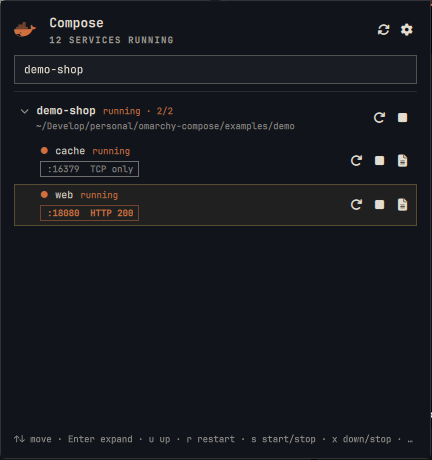
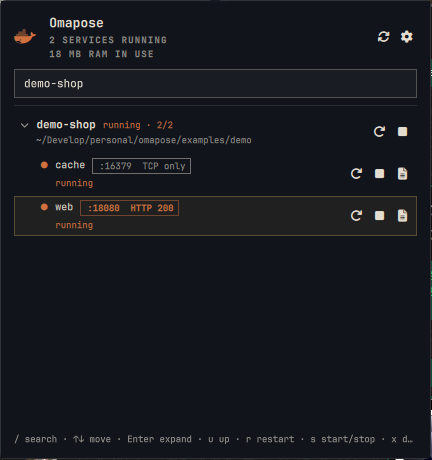
refactor(nombre): renombra el plugin a Omapose
Omacompose ya existe en el marketplace; ID io.github.jeanpidev.omapose,
repo JeanpiDev/omapose, nuevo preview y documentación al día.

diff --git a/components/SettingsView.qml b/components/SettingsView.qml
@@ -159,7 +159,7 @@ Item {
 
         Text {
           textFormat: Text.PlainText
-          text: "Compose · v" + Model.VERSION
+          text: "Omapose · v" + Model.VERSION
           color: root.fg
           font.family: root.fontFamily
           font.pixelSize: Style.font.body

diff --git a/specs/001-compose-panel/tasks.md b/specs/001-compose-panel/tasks.md
@@ -17,7 +17,7 @@ description: "Task list for 001-compose-panel"
 
 - [X] T001 Crear `manifest.json` según contracts/interfaces.md (id, homepage, schema, defaults)
 - [X] T002 [P] Añadir `LICENSE` (MIT, JeanpiDev) y `.gitignore`
-- [X] T003 [P] Crear `scripts/dev-sync.sh` (rsync del repo a `~/.config/omarchy/plugins/io.github.jeanpidev.omarchy-compose`, excluye `.git`/`specs`/`.specify`/`.claude`/`tests`, luego `omarchy restart shell`)
+- [X] T003 [P] Crear `scripts/dev-sync.sh` (rsync del repo a `~/.config/omarchy/plugins/io.github.jeanpidev.omapose`, excluye `.git`/`specs`/`.specify`/`.claude`/`tests`, luego `omarchy restart shell`)
 - [X] T004 [P] Crear `i18n/en.json` e `i18n/es.json` con las claves base (título, estados, acciones, errores, vacío)
 
 ---
@@ -29,7 +29,7 @@ description: "Task list for 001-compose-panel"
 - [X] T007 Implementar en `Model.js` `groupProjects` (Project/Service, estado agregado, salud desde `.Status`) y `mergeRemembered` (recordados → `stopped`/`missing`)
 - [X] T008 [P] Tests en `tests/model.test.mjs` para T005–T007: config_files con comas, IPv6, texto con forma de marcado, entradas truncadas, proyecto recordado sin contenedores
 - [X] T009 Crear `ComposeStore.qml`: `Process` de `docker ps` con una sola reconstrucción por ciclo, `ListModel` de proyectos y servicios sincronizado por clave (`set`/`insert`/`remove`, nunca reasignar), `errorText` (daemon caído / permiso con acción sugerida)
-- [X] T010 En `ComposeStore.qml`: `FileView` de `~/.local/state/omarchy/omarchy-compose/projects.json` (lectura tolerante a JSON corrupto, escritura al ver proyectos, `forget(name)`)
+- [X] T010 En `ComposeStore.qml`: `FileView` de `~/.local/state/omarchy/omapose/projects.json` (lectura tolerante a JSON corrupto, escritura al ver proyectos, `forget(name)`)
 - [X] T011 En `ComposeStore.qml`: proceso largo `docker events` (filtro compose) → refresco con debounce 300 ms; reinicio con backoff 2→60 s; respaldo `idleRefreshSec`; terminar procesos en `Component.onDestruction`
 - [X] T012 Crear `BarWidget.qml`: `WidgetButton` con `onPressed` (izquierdo: toggle; derecho: refresh), `inkColor` = `widgetContentColor` en Shibumi / `barForeground` nativa, contador de servicios activos, instancia `ComposeStore`, `Loader` de `Panel.qml` con inyección (`bar`, `anchorItem`, `hostWidget`, `store`), `IpcHandler` (open/close/toggle/refresh/status)
 - [X] T013 Crear `Panel.qml`: `Panel` + `KeyboardPanel` + `PanelKeyCatcher` (Esc, Tab entre paneles), `PanelHero`, contenedor de vistas (lista | logs | ajustes), fondo opaco con tokens `Color.popups.*`
@@ -89,6 +89,7 @@ description: "Task list for 001-compose-panel"
 - [X] T031 Validar: `node --test tests/`, `omarchy plugin validate .`, `qmllint -I /usr/share/omarchy/shell` sobre todos los QML
 - [X] T032 Ejecutar checklist completo de quickstart.md en Shibumi y en `omarchy.bar`, incluidos cambio de tema, `pgrep -af "docker events"` tras desactivar/desinstalar, y medición de CPU en reposo (SC-005) — hecho: Shibumi, `omarchy.bar`, cambio de tema, summon/hide, desactivar/reactivar, desinstalar/reinstalar, SC-001 (10 proyectos/30 servicios: ~50 ms), SC-005, estado «missing», español. Docker detenido: mensaje + icono atenuado, sin procesos colgados, recuperación sola al arrancarlo.
 
+- [X] T035 RAM total de contenedores en marcha en la cabecera (`docker stats`, panel abierto) — FR-015
 - [X] T034 Cumplir `develop.html`: `qmllint` de la guía en 0 (IPC en `PluginIpc.qml`), Tab = panel vecino, README con Install/Usage/Configure/Remove, dependencias y privilegios
 - [X] T033 Opción de idioma (`language`: auto/en/es) en ajustes con `Strings.qml` propio — FR-010
 

diff --git a/README.md b/README.md
@@ -1,13 +1,13 @@
-# Compose for Omarchy
+# Omapose
 
 Docker Compose projects in the Omarchy bar. See every project and service at a glance, bring them up or down, restart or stop single services, check whether their ports answer HTTP, and follow logs — from a panel, without opening a separate app.
 
-![Compose panel](preview.png)
+![Omapose panel](preview.png)
 
 ## Install
 
 ```sh
-omarchy plugin add https://github.com/JeanpiDev/omarchy-compose.git --enable
+omarchy plugin add https://github.com/JeanpiDev/omapose.git --enable
 ```
 
 ### Requirements
@@ -42,20 +42,22 @@ Click the whale in the bar (right click refreshes). The number next to it is how
 | `s` | Start / stop a service |
 | `x` / Delete | Down a project (asks first) · stop a service |
 | `o` / `y` | Open / copy the first port of a service |
-| `f` | Forget a remembered project with no containers (also `quickshell ipc -p /usr/share/omarchy/shell call io.github.jeanpidev.omarchy-compose forget <name>`) |
+| `f` | Forget a remembered project with no containers (also `quickshell ipc -p /usr/share/omarchy/shell call io.github.jeanpidev.omapose forget <name>`) |
 | `,` | Settings and About |
 | `R` | Refresh |
 | Esc | Back · close |
 
 Service actions act on the container, so they also work for services behind compose `profiles:` and for containers whose service was removed from the file. Bringing a project down includes every profile and removes those orphan containers.
 
+The header shows how many services are running and how much RAM they use in total (sampled with `docker stats` every 10 s while the panel is open).
+
 Ports show whether they answer: `HTTP 200`, `HTTP 404 · API`, `HTTP 401 · auth`, `TCP only` (databases), `No response`. Only HTTP ports open in the browser.
 
-Projects you brought down stay in the list (remembered in `~/.local/state/omarchy/omarchy-compose/projects.json`) so you can bring them up again.
+Projects you brought down stay in the list (remembered in `~/.local/state/omarchy/omapose/projects.json`) so you can bring them up again.
 
 ## Configure
 
-Panel → gear, or `omarchy bar set io.github.jeanpidev.omarchy-compose <key> <value> --json`:
+Panel → gear, or `omarchy bar set io.github.jeanpidev.omapose <key> <value> --json`:
 
 | Key | Default | |
 |---|---|---|
@@ -68,7 +70,7 @@ Panel → gear, or `omarchy bar set io.github.jeanpidev.omarchy-compose <key> <v
 Move it in the bar like any widget:
 
 ```sh
-omarchy bar move io.github.jeanpidev.omarchy-compose --section right
+omarchy bar move io.github.jeanpidev.omapose --section right
 ```
 
 ## Works with
@@ -97,8 +99,8 @@ examples/demo/               # small nginx + redis project to try it with
 ## Remove
 
 ```sh
-omarchy plugin remove io.github.jeanpidev.omarchy-compose
-rm -rf ~/.local/state/omarchy/omarchy-compose   # optional: remembered projects
+omarchy plugin remove io.github.jeanpidev.omapose
+rm -rf ~/.local/state/omarchy/omapose   # optional: remembered projects
 ```
 
 ## License

diff --git a/specs/001-compose-panel/plan.md b/specs/001-compose-panel/plan.md
@@ -6,7 +6,7 @@
 
 ## Summary
 
-Plugin `bar-widget` de Omarchy Quattro (`io.github.jeanpidev.omarchy-compose`) que lista los proyectos docker compose con sus servicios, estado, salud y puertos (con sondeo HTTP), y permite levantar/bajar/reiniciar proyectos y servicios y ver logs desde un `KeyboardPanel`. Datos con un único `docker ps -a` filtrado por etiquetas compose, refresco disparado por `docker events` (sin sondeo continuo), proyectos recordados en un archivo de estado, y estilo 100 % de tokens del tema/barra con la regla de color de Shibumi.
+Plugin `bar-widget` de Omarchy Quattro (`io.github.jeanpidev.omapose`) que lista los proyectos docker compose con sus servicios, estado, salud y puertos (con sondeo HTTP), y permite levantar/bajar/reiniciar proyectos y servicios y ver logs desde un `KeyboardPanel`. Datos con un único `docker ps -a` filtrado por etiquetas compose, refresco disparado por `docker events` (sin sondeo continuo), proyectos recordados en un archivo de estado, y estilo 100 % de tokens del tema/barra con la regla de color de Shibumi.
 
 ## Technical Context
 
@@ -14,7 +14,7 @@ Plugin `bar-widget` de Omarchy Quattro (`io.github.jeanpidev.omarchy-compose`) q
 
 **Primary Dependencies**: kit del shell `qs.Ui` (`BarWidget`, `WidgetButton`, `Panel`, `KeyboardPanel`, `PanelKeyCatcher`, `PanelHero`, `ConfirmDialog`, `TextField`), `qs.Commons` (`Color`, `Style`, `Translations`, `I18n`), `Quickshell.Io` (`Process`, `StdioCollector`, `FileView`, `IpcHandler`). Externas: `docker` + `docker compose` v2 (5.6.1 instalado), `curl`, `xdg-terminal-exec`.
 
-**Storage**: `~/.local/state/omarchy/omarchy-compose/projects.json` (proyectos recordados). Ajustes en `shell.json` vía `barWidget.schema` del manifiesto.
+**Storage**: `~/.local/state/omarchy/omapose/projects.json` (proyectos recordados). Ajustes en `shell.json` vía `barWidget.schema` del manifiesto.
 
 **Testing**: `node --test tests/` sobre `Model.js` (parsers, agregados, sondeo, merge de recordados, texto con marcado); `omarchy plugin validate`; `qmllint -I /usr/share/omarchy/shell`; checklist manual en `quickstart.md` (Shibumi y barra nativa).
 
@@ -62,7 +62,7 @@ specs/001-compose-panel/
 ### Source Code (repository root)
 
 ```text
-manifest.json             # id io.github.jeanpidev.omarchy-compose, kinds [bar-widget], homepage, schema
+manifest.json             # id io.github.jeanpidev.omapose, kinds [bar-widget], homepage, schema
 BarWidget.qml             # WidgetButton + contador + color Shibumi; crea ComposeStore; Loader de Panel; IpcHandler
 Panel.qml                 # Panel + KeyboardPanel + PanelKeyCatcher; vistas: lista | logs | ajustes
 ComposeStore.qml          # Process docker ps / events / acciones / sondeo; FileView de recordados; ListModel incremental

diff --git a/specs/001-compose-panel/research.md b/specs/001-compose-panel/research.md
@@ -16,7 +16,7 @@ Fuentes: https://plugins.omarchy.org/develop.html, `/usr/share/omarchy/shell`, p
 | Procesos con `Process` acotado, nunca interpolar valores en `bash -c` (fuente de datos: ver Fase 0). | Sin dependencias extra; seguro. |
 | Referencia Shibumi validada: `io.github.iammhador.claude-pulse` (solo `bar-widget`, datos dentro del widget, `WidgetButton.onPressed`, `PlainText` en todo). Su color no sigue a Shibumi (usa `barForeground`); ver regla de color. | Click y datos funcionan en la barra Shibumi del usuario. |
 | About en ajustes: tarjeta con nombre · versión, nota de privacidad y enlace al repo (`Qt.openUrlExternally`); `"homepage"` en `manifest.json`. | Patrón de `rimuru.screentime` (`SettingsView.qml`, sección About). |
-| ID `io.github.jeanpidev.omarchy-compose`; repo `github.com/JeanpiDev/omarchy-compose`. | Third-party no puede usar `omarchy.*`; sin symlinks. |
+| ID `io.github.jeanpidev.omapose`; repo `github.com/JeanpiDev/omapose`. | Third-party no puede usar `omarchy.*`; sin symlinks. |
 | Validación: `omarchy plugin validate`, `qmllint -I "$OMARCHY_PATH/shell"`; probar click, Esc, summon/hide, disable/enable, restart, remove en Shibumi y barra nativa. | Checklist de la guía. |
 
 ## Fase 0 (plan): decisiones con alternativas
@@ -38,3 +38,5 @@ Fuentes: https://plugins.omarchy.org/develop.html, `/usr/share/omarchy/shell`, p
 | Etiqueta del id de traducciones distinta de la propiedad (`tr`, no `strings`). | `strings: strings` dentro de un componente se resuelve a sí mismo (binding vacío): se veían claves sin traducir. | — |
 | `IpcHandler` en `PluginIpc.qml`, instanciado por `BarWidget`. | `qmllint` (Quattro) termina con código 255 sin mensaje ante cualquier `IpcHandler` con funciones tipadas (también en omaports y rimuru); separado, el paso de la guía `qmllint BarWidget.qml Panel.qml` pasa. Abrir/cerrar los enruta el shell a `BarWidget.open()/close()`. | Dejarlo en `BarWidget.qml` (falla la validación de la guía). |
 | Tab / Shift+Tab → panel vecino (`switchPanel`); `/` enfoca el buscador; ↓ desde el buscador entra a la lista. | Convención de todos los paneles nativos y del ejemplo de `develop.html`. | Tab para alternar buscador/lista. |
+| RAM total con `docker stats --no-stream` sobre los contenedores en marcha, solo con el panel abierto y cada 10 s. | `docker stats` muestrea ~1–2 s; en segundo plano no bloquea la lista ni gasta CPU con el panel cerrado. | `docker stats` en streaming permanente (proceso extra siempre vivo). |
+| Nombre «Omapose» (ID `io.github.jeanpidev.omapose`). | «Omacompose» ya existe en el marketplace (otro uso: tecla Compose de X); «Compose» a secas se confundía. Sigue la convención `oma*`. | Compose, Compachy, Dockside, Berth, Convoy. |

diff --git a/specs/001-compose-panel/contracts/interfaces.md b/specs/001-compose-panel/contracts/interfaces.md
@@ -5,17 +5,17 @@
 ```json
 {
   "schemaVersion": 1,
-  "id": "io.github.jeanpidev.omarchy-compose",
-  "name": "Compose",
+  "id": "io.github.jeanpidev.omapose",
+  "name": "Omapose",
   "version": "0.1.0",
   "author": "JeanpiDev",
   "license": "MIT",
-  "homepage": "https://github.com/JeanpiDev/omarchy-compose",
+  "homepage": "https://github.com/JeanpiDev/omapose",
   "description": "Docker Compose projects in the Omarchy bar: status, up/down/restart, ports and logs.",
   "kinds": ["bar-widget"],
   "entryPoints": { "barWidget": "BarWidget.qml" },
   "barWidget": {
-    "displayName": "Compose",
+    "displayName": "Omapose",
     "category": "Developer Tools",
     "allowMultiple": false,
     "defaultSection": "right",
@@ -31,7 +31,7 @@
 }
 ```
 
-## IPC (`PluginIpc.qml`, `IpcHandler target: "io.github.jeanpidev.omarchy-compose"`)
+## IPC (`PluginIpc.qml`, `IpcHandler target: "io.github.jeanpidev.omapose"`)
 
 | Función | Efecto |
 |---|---|
@@ -51,6 +51,7 @@
 | Logs (panel) | `docker logs --tail <N> -f <containerId>` (salida acotada a N líneas en memoria) |
 | Logs (terminal) | `xdg-terminal-exec docker logs -f --tail 200 <containerId>` |
 | Sondeo | `sh -c '<script fijo>' compose-probe <url>…` (curl `--max-time 1`, ≤ 64 URLs; al abrir el panel, cada 60 s con el panel abierto y al aparecer un puerto nuevo) |
+| Memoria | `docker stats --no-stream --format {{.ID}}\t{{.MemUsage}} <ids en marcha>` (solo con el panel abierto, cada 10 s; suma del uso) |
 | Repo (About) | `Qt.openUrlExternally(manifest.homepage)` |
 
 Salidas de proceso: `head -c 262144` equivalente (descartar el exceso); stderr a `Action.message` (≤ 512).

diff --git a/specs/001-compose-panel/spec.md b/specs/001-compose-panel/spec.md
@@ -80,6 +80,7 @@ Desde un servicio abro sus últimas líneas de log dentro del panel, siguiéndol
 - **FR-006**: El indicador de la barra MUST mostrar los servicios en marcha y funcionar igual (click, datos, apertura del panel) tanto en la barra Shibumi como en la nativa.
 - **FR-007**: El icono y el texto de la barra MUST tomar el color de primer plano de la barra que lo aloja (p. ej. el acento de Shibumi), y el panel los colores del tema activo; todo se actualiza en vivo al cambiar tema o estilo de barra. El fondo del panel MUST ser opaco (sin texto de ventanas detrás).
 - **FR-012**: Los refrescos automáticos MUST conservar la posición del scroll, el elemento seleccionado, el foco y el texto del buscador; solo cambian las filas afectadas.
+- **FR-015**: La cabecera del panel MUST mostrar, bajo el número de servicios en marcha, la RAM total que usan los contenedores en marcha.
 - **FR-014**: Los ajustes del plugin MUST incluir una sección «Acerca de» con nombre, versión, una nota de privacidad (solo Docker local, nada sale del equipo) y el enlace al repositorio, que se abre en el navegador.
 - **FR-013**: El plugin MUST abrirse y cerrarse también por comando del shell (`summon`/`hide`) y sobrevivir a desactivar, reactivar, reiniciar el shell y desinstalar sin dejar procesos.
 - **FR-008**: El panel MUST manejarse completo con teclado (navegar, desplegar, acciones, cerrar con Esc).

diff --git a/specs/001-compose-panel/quickstart.md b/specs/001-compose-panel/quickstart.md
@@ -1,12 +1,12 @@
 # Quickstart (desarrollo y verificación)
 
 ```sh
-cd ~/Develop/personal/omarchy-compose
+cd ~/Develop/personal/omapose
 node --test tests/                                   # Model.js
 omarchy plugin validate .
 qmllint -I /usr/share/omarchy/shell BarWidget.qml Panel.qml ComposeStore.qml components/*.qml
-scripts/dev-sync.sh                                  # copia a ~/.config/omarchy/plugins/io.github.jeanpidev.omarchy-compose y reinicia el shell
-omarchy plugin enable io.github.jeanpidev.omarchy-compose
+scripts/dev-sync.sh                                  # copia a ~/.config/omarchy/plugins/io.github.jeanpidev.omapose y reinicia el shell
+omarchy plugin enable io.github.jeanpidev.omapose
 ```
 
 La recarga en caliente no siempre reinstancia widgets: tras cambios de QML usar `omarchy restart shell` (lo hace `dev-sync.sh`).
